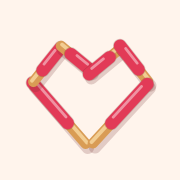
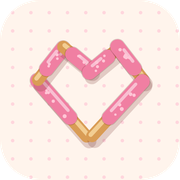
로고·아이콘 추가, 호칭 및 썸네일 문구 수정

diff --git a/README.md b/README.md
@@ -5,13 +5,14 @@
 ## 파일
 - `index.html` — 사이트 전체
 - `og-image.png` — 카톡/인스타 링크 미리보기 이미지 (1200×630)
+- `logo.png`, `icon-512.png` — 로고, 앱 아이콘
 - `apple-touch-icon.png`, `favicon.png` — 아이콘
 
 ## 배포 (Vercel, 약 5분)
-1. 도메인(bbabbaro.nookin.dev)은 이미 index.html에 들어가 있어요
+1. 도메인(bbaebbaero.nookin.dev)은 이미 index.html에 들어가 있어요
 2. https://vercel.com 가입 → Add New → Project → 이 폴더를 드래그해서 업로드
    (또는 터미널에서 `npx vercel --prod`)
-3. 도메인 연결: Vercel 프로젝트 → Settings → Domains 에 bbabbaro.nookin.dev 입력 → 안내대로 nookin.dev DNS에 CNAME(bbabbaro → cname.vercel-dns.com) 추가
+3. 도메인 연결: Vercel 프로젝트 → Settings → Domains 에 bbaebbaero.nookin.dev 입력 → 안내대로 nookin.dev DNS에 CNAME(bbaebbaero → cname.vercel-dns.com) 추가
 
 ## 미리보기가 안 바뀔 때
 카카오톡은 미리보기를 캐시해요. 이미지 수정 후엔
